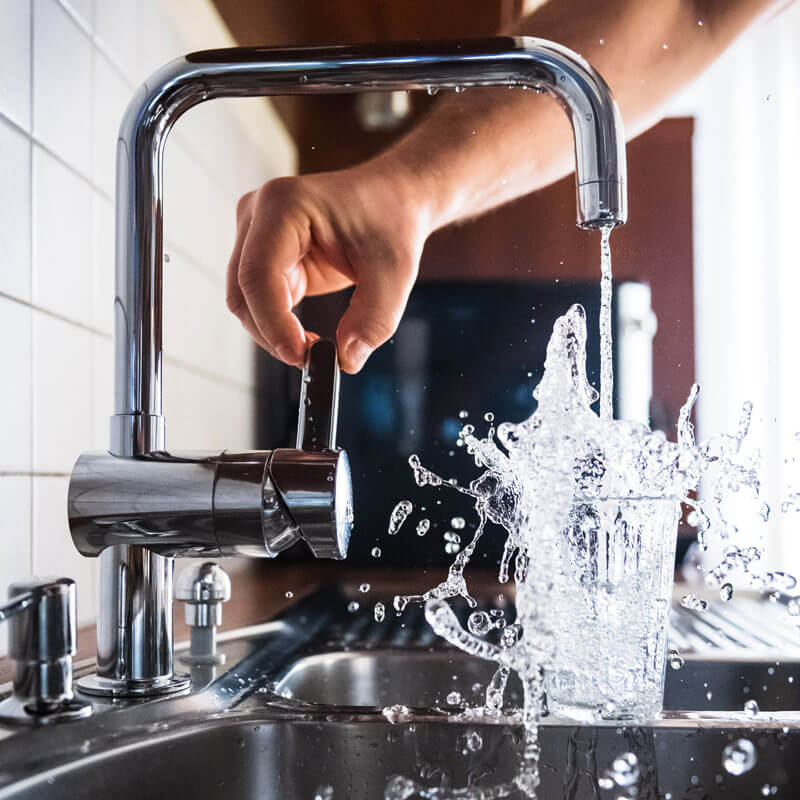
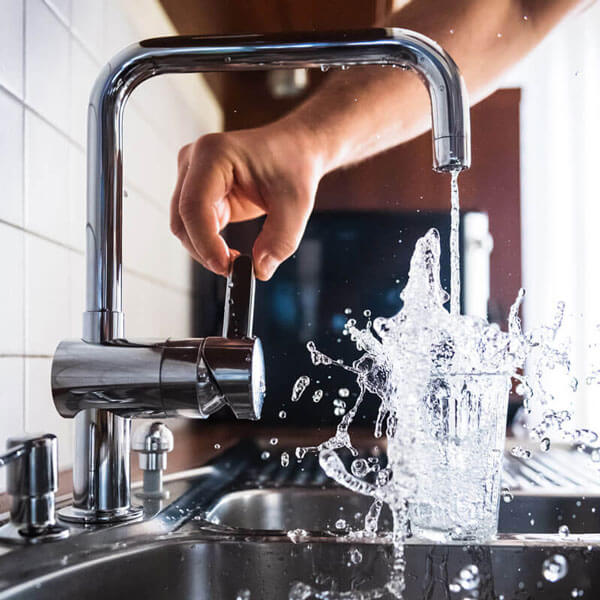
Cleaned up images and replaced hero img

diff --git a/css/main.css b/css/main.css
@@ -58,8 +58,8 @@ header a {
     justify-content: center;
     align-items: center;
     background-color: silver;
-    background-image: url(../img/hero-bg-tub.jpg);
-    background-position: right bottom;
+    background-image: url(../img/pioneer-hero-dsk.jpg);
+    background-position: bottom center;
     background-size: cover;
     background-attachment: fixed;
     box-shadow: inset 0 0 20px rgba(0, 0, 0, 0.5);
@@ -67,7 +67,6 @@ header a {
 .services,
 .contact {
     position: relative;
-
     width: 100%;
     padding: 0 2rem;
 }
@@ -96,21 +95,19 @@ h2 {
     padding-bottom: 3rem;
 }
 h3 {
-    font-size: 2.6rem;
+    font-size: 2rem;
     padding: 3rem 2rem 1rem 2rem;
 }
 h4 {
-    font-size: 2rem;
+    font-size: 1.4rem;
     padding: 1.6rem 0 1rem 0;
 }
-
 .container--services {
     max-width: 900px;
     margin: 0 auto;
     display: flex;
     justify-content: space-between;
 }
-
 .service {
     text-align: center;
     width: 30%;
@@ -122,6 +119,7 @@ h4 {
 .service--img-gasfitting,
 .service--img-drainlaying {
     border-radius: 100%;
+    border: 1px solid #1c1c1c;
 }
 .service--img-plumbing:hover {
     box-shadow: 0 0 30px #027dc5;
@@ -172,7 +170,7 @@ ul {
     margin-bottom: 1.2rem;
 }
 .contact--icon {
-    max-width: 35px;
+    max-width: 30px;
 }
 .info {
     margin-bottom: 2rem;
@@ -250,6 +248,9 @@ footer {
     transform: translateY(46px);
     pointer-events: none;
 }
+.tukka-mbl {
+    display: none;
+}
 
 /* QUERIES START */
 @media screen and (max-width: 900px) {
@@ -266,10 +267,10 @@ footer {
         font-size: 2.2rem;
     }
     h3 {
-        font-size: 2rem;
+        font-size: 1.8rem;
     }
     h4 {
-        font-size: 1.6rem;
+        font-size: 1.2rem;
     }
     header img {
         width: 140px;
@@ -283,6 +284,11 @@ footer {
     }
     .section--header {
         padding-bottom: 2rem;
+    }
+    .services,
+    .contact {
+        min-height: auto;
+        margin: 1rem 0 4rem 0;
     }
     .container--contact {
         flex-direction: column-reverse;
@@ -359,9 +365,12 @@ footer {
         justify-content: space-between;
         margin-bottom: 1rem;
     }
-    section.hero {
+    .hero {
+        background-image: url(../img/pioneer-hero-mbl.jpg);
         height: 300px;
+        background-position: center;
         background-attachment: scroll;
+        padding: 2rem;
     }
     h2 {
         font-size: 1.2rem;
@@ -373,9 +382,6 @@ footer {
     h4 {
         font-size: 1.3rem;
         padding: 1rem 2rem 0.7rem 2rem;
-    }
-    .hero {
-        padding: 2rem;
     }
     .service--img-box {
         max-width: 400px;
@@ -418,7 +424,7 @@ footer {
         text-align: left;
     }
     .contacts {
-        margin-bottom: 2rem;
+        margin-bottom: 1.4rem;
     }
     .contact--single {
         display: block;
@@ -453,5 +459,11 @@ footer {
     .tukka {
         width: 200px;
         transform: translateY(215px);
+    }
+    .tukka-dsk {
+        display: none;
+    }
+    .tukka-mbl {
+        display: block;
     }
 }

diff --git a/index.html b/index.html
@@ -234,7 +234,6 @@
 
                     <div class="container--contact-inner contacts">
                         <div class="info">
-                            <p>Aiden Hullett</p>
                             <p>
                                 Certifying Plumbers
                                 Gasfitters&nbsp;and&nbsp;Drainlayers
@@ -284,7 +283,16 @@
                         </div>
                     </div>
                     <div class="tukka">
-                        <img src="./img/tukka.png" alt="" />
+                        <img
+                            src="./img/tukka-dsk.png"
+                            alt="Tukka Employee of the month"
+                            class="tukka-dsk"
+                        />
+                        <img
+                            src="./img/tukka-mbl.png"
+                            alt="Tukka Employee of the month"
+                            class="tukka-mbl"
+                        />
                     </div>
                 </div>
             </section>
